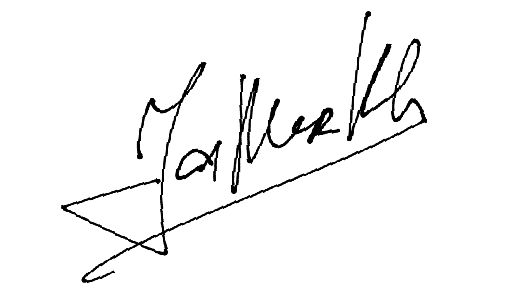
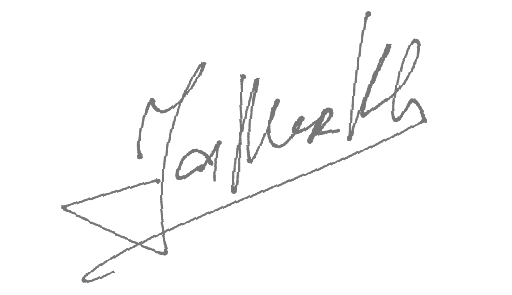
Updated signature image and repositioned it below author text

diff --git a/src/App.tsx b/src/App.tsx
@@ -857,11 +857,11 @@ function AirportBoard() {
               <img src="/logo1.png" alt="Uzbekistan Airports" className="h-full w-auto object-contain" />
             </div>
           </div>
-          <div className="flex items-center gap-4">
-            <p className="text-[12px] text-gray-500 font-black uppercase tracking-widest">
+          <div className="flex flex-col items-center md:items-end gap-2 mt-4 md:mt-0">
+            <p className="text-[12px] text-gray-500 font-black uppercase tracking-widest text-center md:text-right">
               created by <a href="http://mirkhadjayev.uz/" target="_blank" rel="noopener noreferrer" className="hover:text-airport-gold transition-colors underline decoration-airport-gold/30 underline-offset-4">Jamshid Mirkhadjayev</a>
             </p>
-            <a href="http://mirkhadjayev.uz/" target="_blank" rel="noopener noreferrer" className="h-12 flex items-center justify-center opacity-70 hover:opacity-100 transition-opacity">
+            <a href="http://mirkhadjayev.uz/" target="_blank" rel="noopener noreferrer" className="h-20 md:h-24 flex items-center justify-center opacity-80 hover:opacity-100 transition-opacity">
               <img src="./signature.png" alt="Signature" className="h-full w-auto object-contain invert mix-blend-screen" />
             </a>
           </div>
